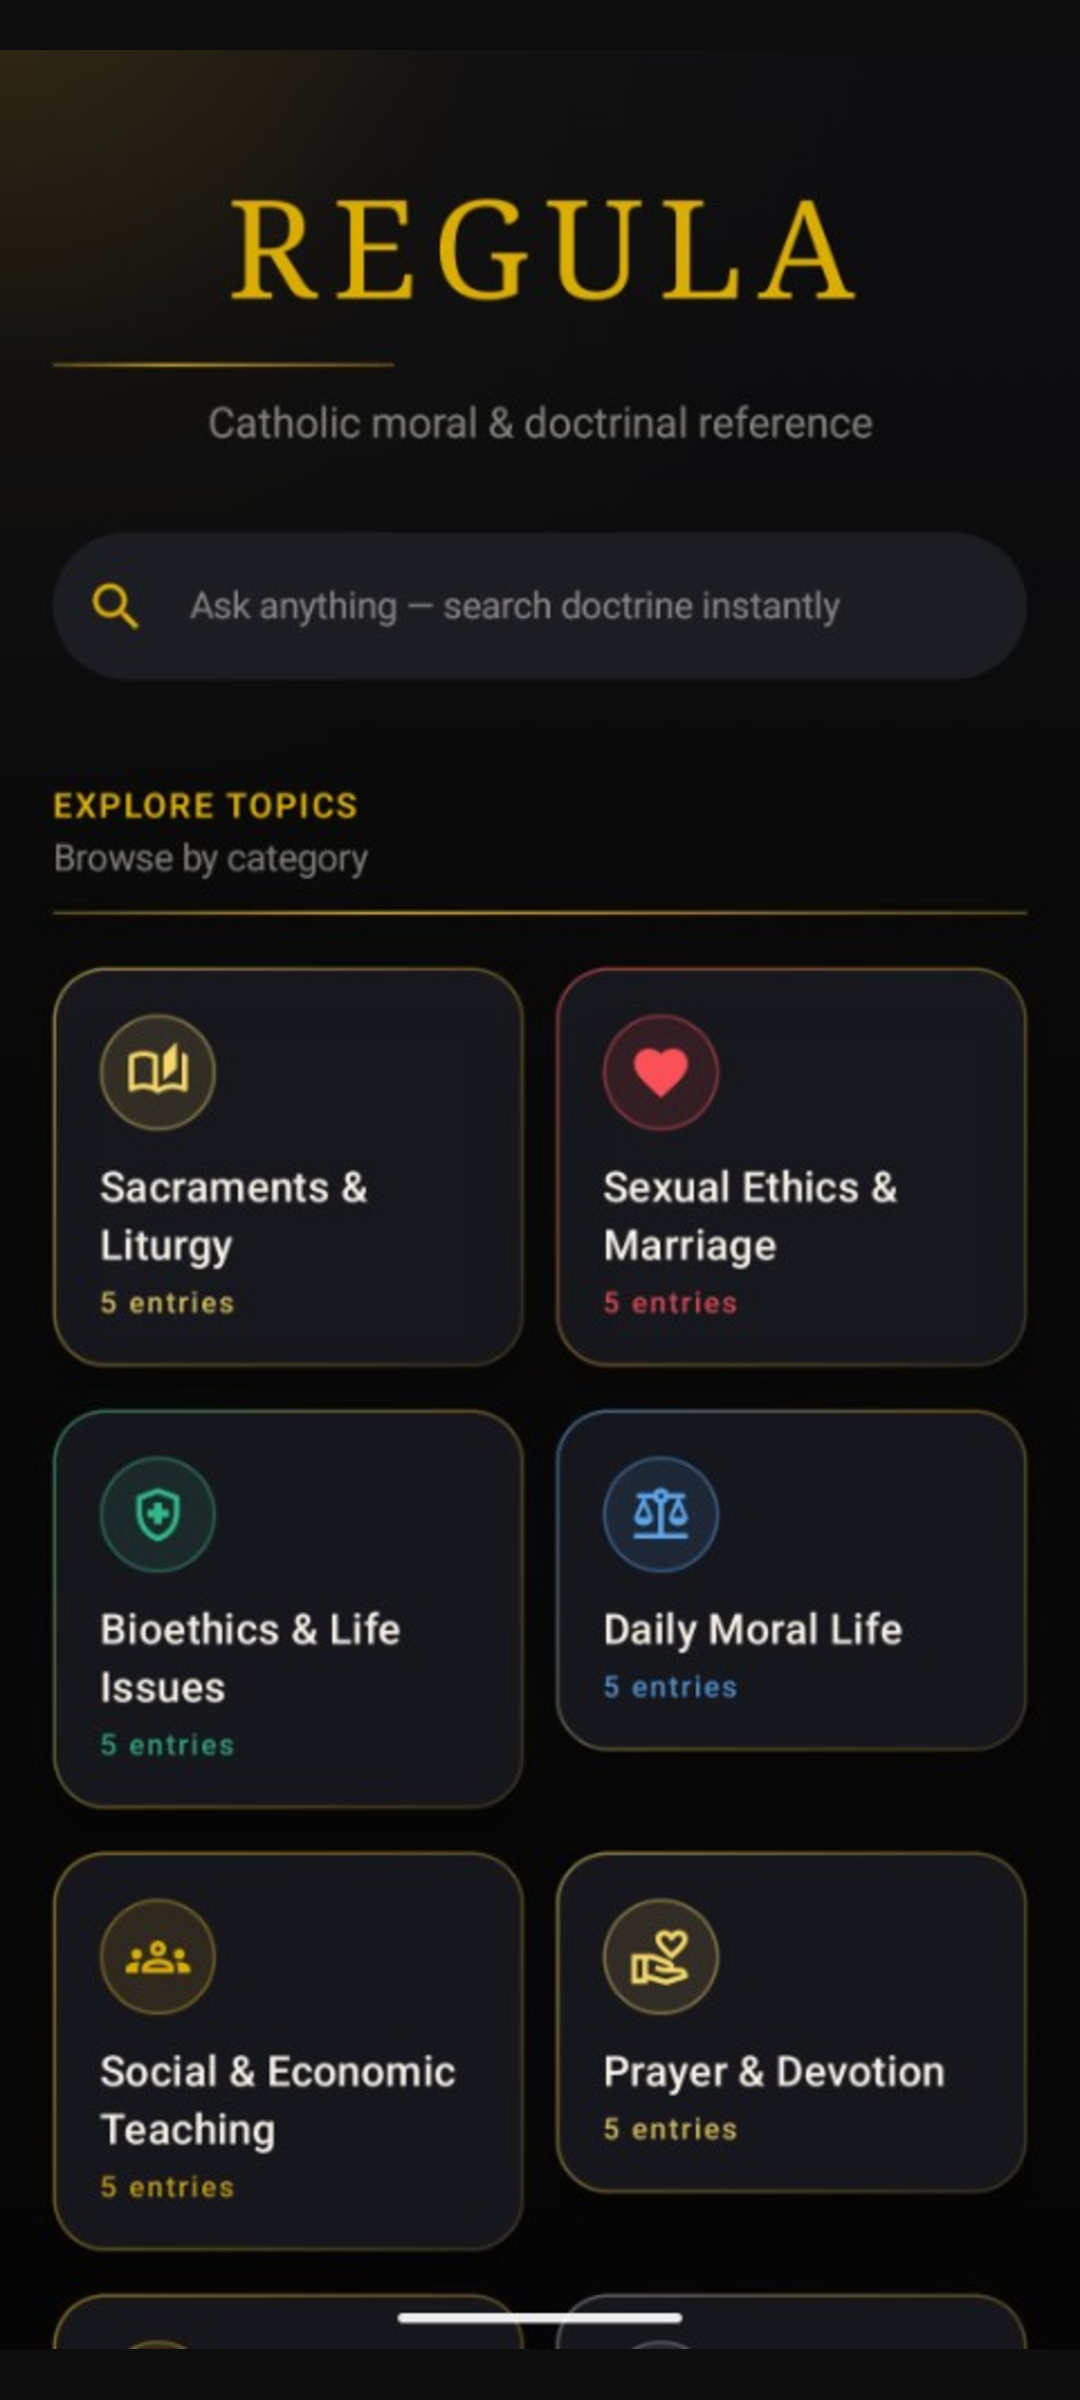
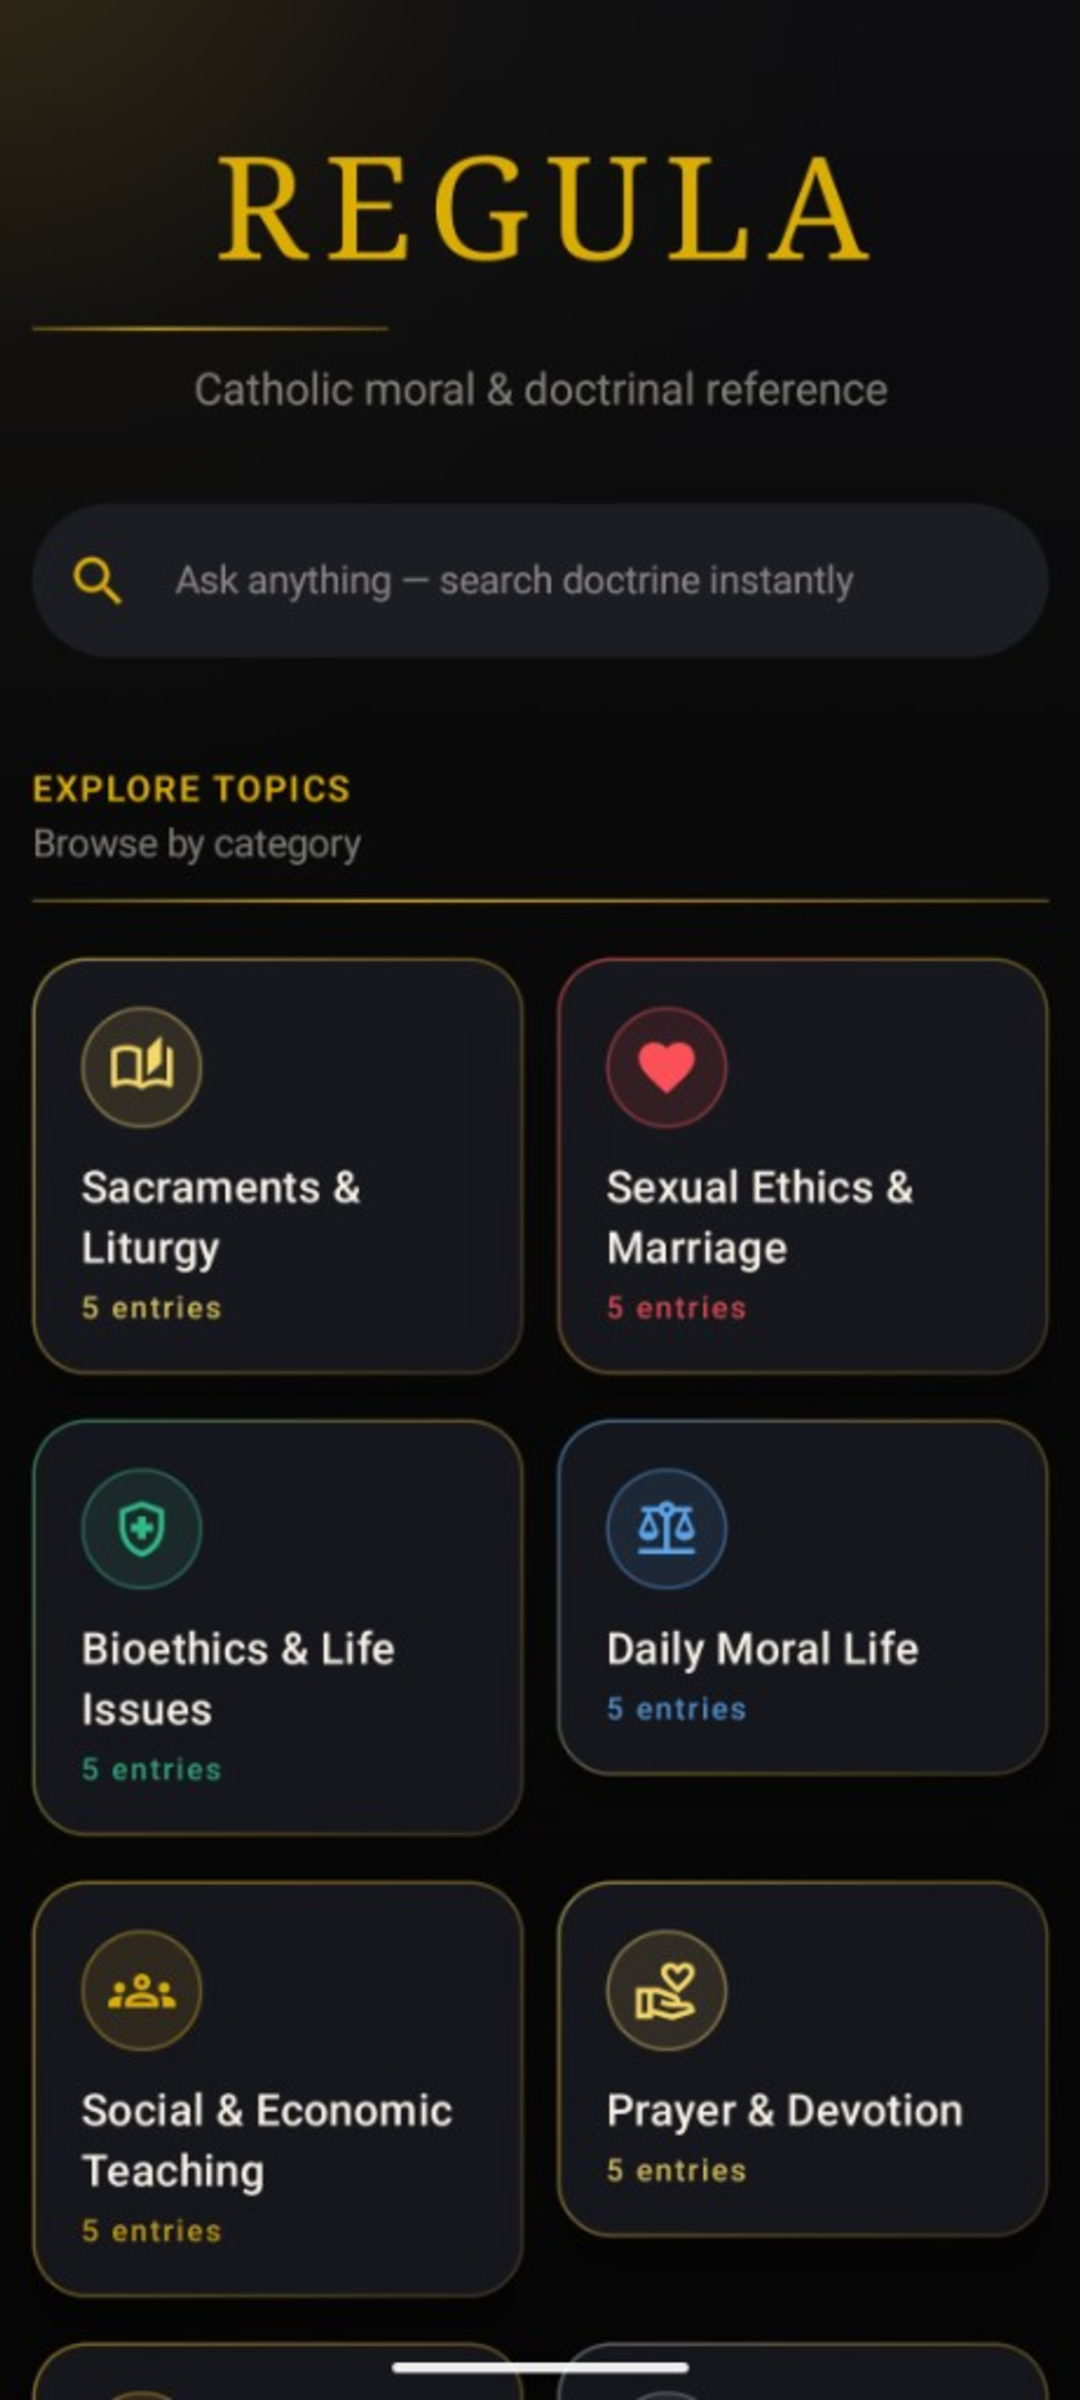
Fix screenshot sizing for F-Droid and README

diff --git a/README.md b/README.md
@@ -95,9 +95,15 @@ Dark gold Material 3 UI, glass cards, and readable typography — built for refe
 
 ## Screenshots
 
-| Welcome &amp; search | Entry detail | Citations |
-|:---:|:---:|:---:|
-| ![Welcome screen](fastlane/metadata/android/en-US/images/phoneScreenshots/1.png) | ![Entry detail](fastlane/metadata/android/en-US/images/phoneScreenshots/2.png) | ![Citations](fastlane/metadata/android/en-US/images/phoneScreenshots/3.png) |
+<p align="center">
+  <img src="fastlane/metadata/android/en-US/images/phoneScreenshots/1.png" alt="Welcome screen" width="240" height="533">
+  &nbsp;&nbsp;
+  <img src="fastlane/metadata/android/en-US/images/phoneScreenshots/2.png" alt="Entry detail" width="240" height="533">
+  &nbsp;&nbsp;
+  <img src="fastlane/metadata/android/en-US/images/phoneScreenshots/3.png" alt="Citations" width="240" height="533">
+</p>
+
+<p align="center"><sub>Welcome &amp; search · Entry detail · Citations</sub></p>
 
 Store listing assets for F-Droid live in [`fastlane/metadata/android/en-US/`](fastlane/metadata/android/en-US/).
 